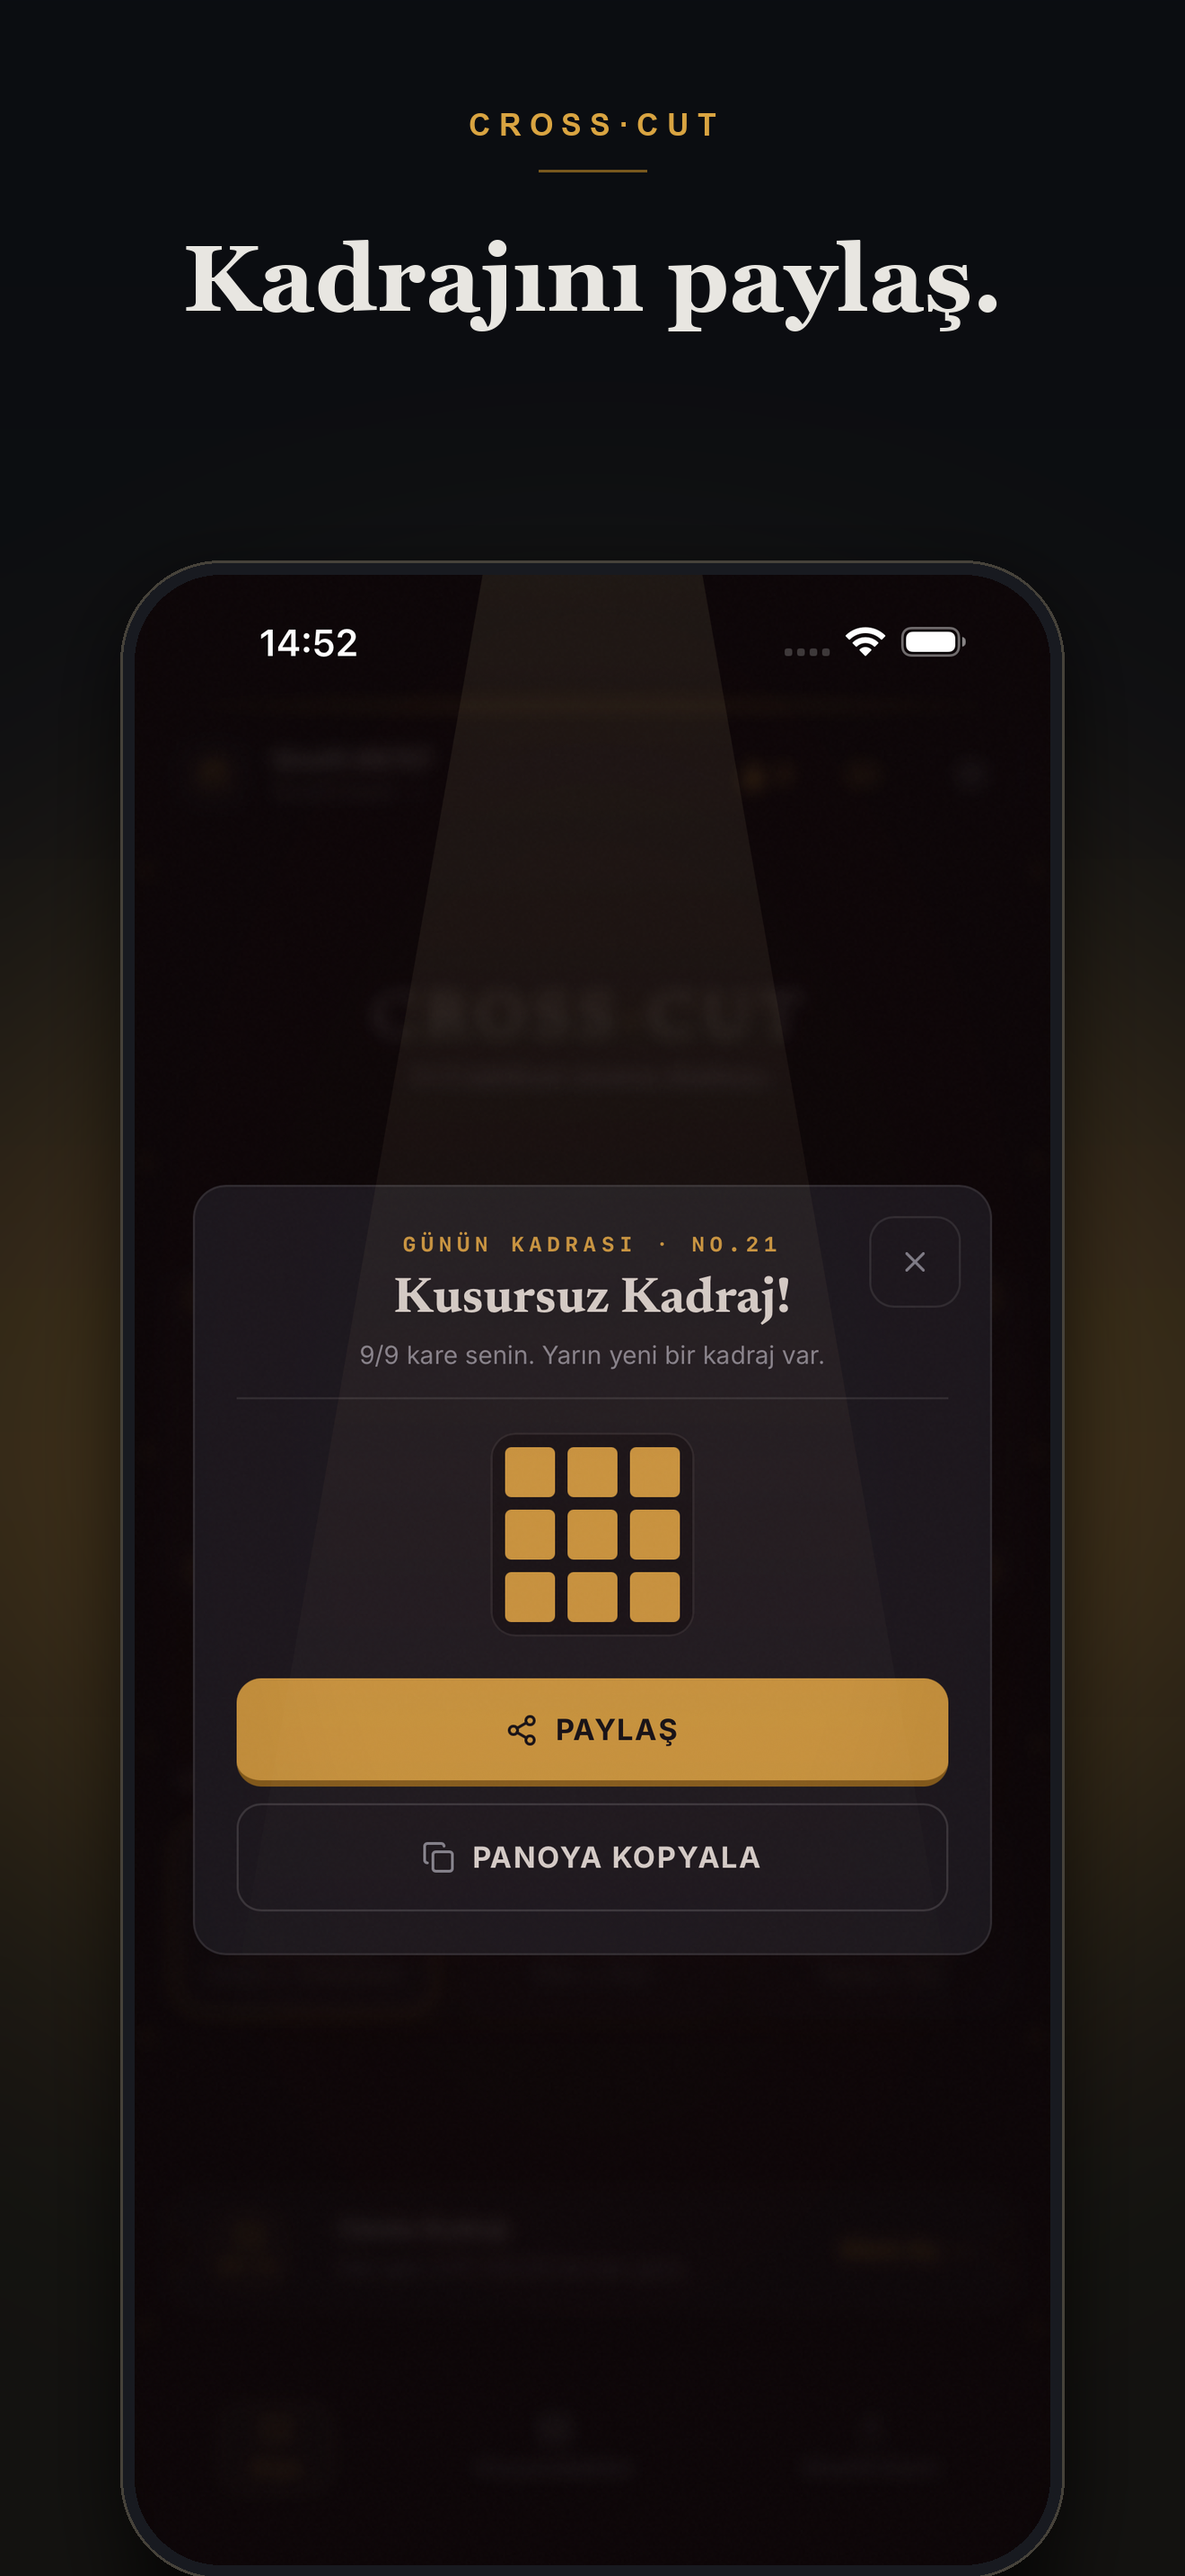
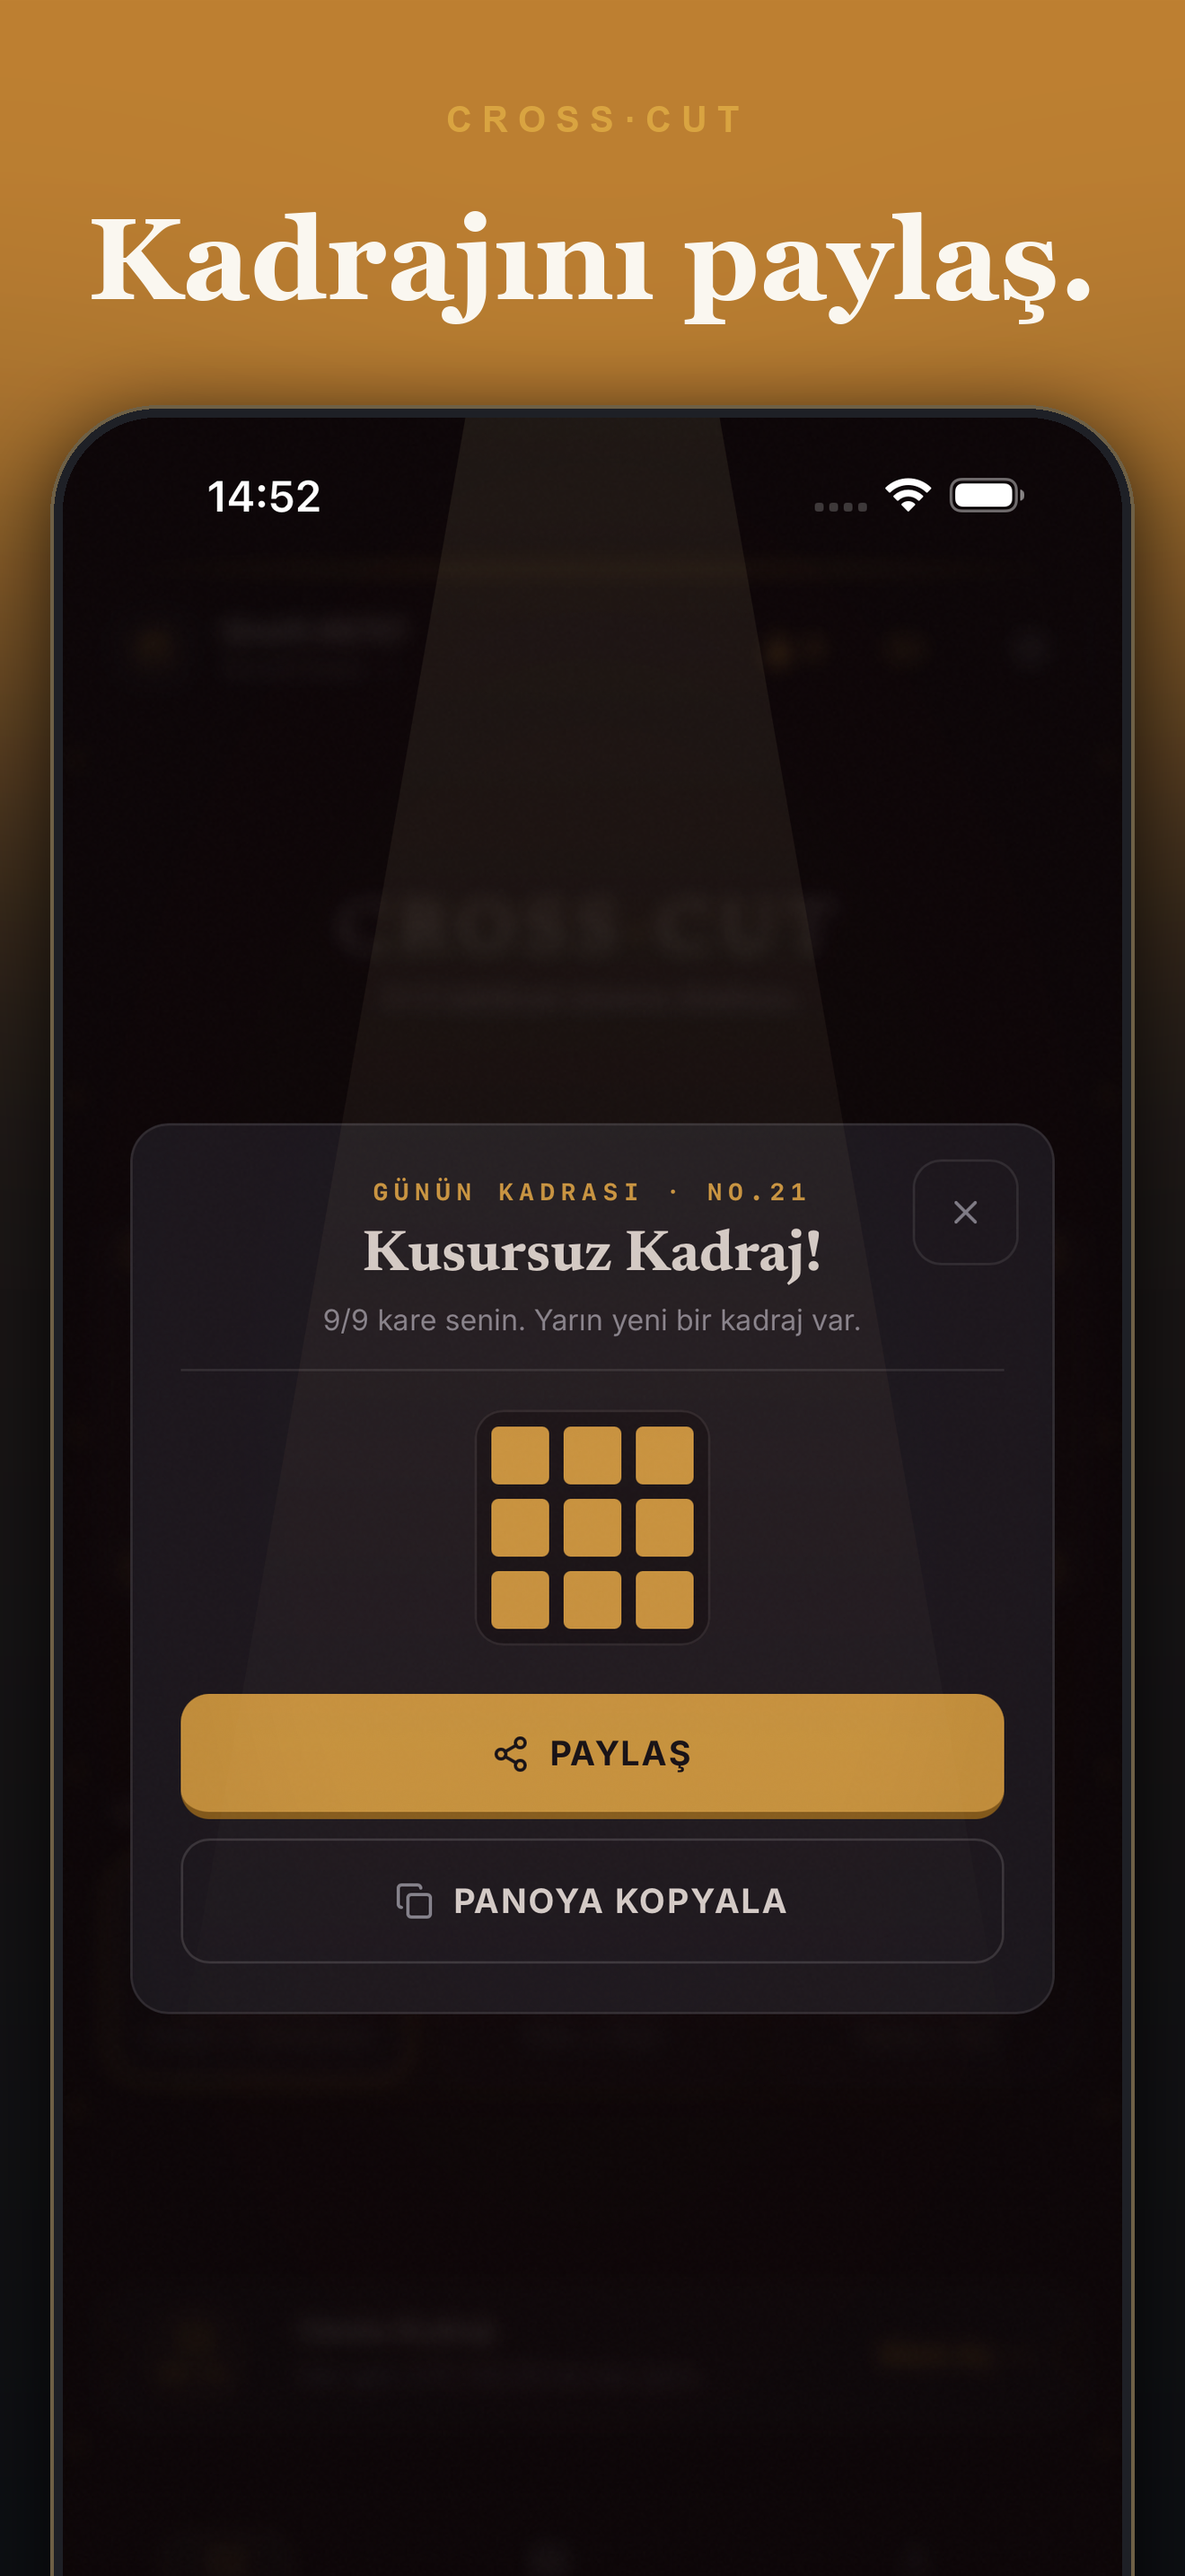
docs(store): regenerate TR/EN App Store screenshots with bolder amber style, larger headlines and larger board (from rival audit)

diff --git a/docs/release/store/compose.py b/docs/release/store/compose.py
@@ -1,0 +1,61 @@
+from PIL import Image, ImageDraw, ImageFont, ImageFilter
+import os, sys
+S="/private/tmp/claude-501/shots"
+OUT="/Users/efe/Desktop/untitled folder/FİLMSEL/docs/release/store"
+W,H=1320,2868
+GOLD=(217,164,65); IVORY=(232,230,225); MUTED=(138,143,154)
+SERIF="/System/Library/Fonts/Supplemental/Georgia Bold.ttf"
+SANS="/System/Library/Fonts/Supplemental/Arial Bold.ttf"
+def font(p,s): return ImageFont.truetype(p,s)
+SETS={
+ "en":[("01-home","en_01_home.png","Movie duel.\n12 seconds."),
+       ("02-classic","en_02_classic.png","Two clues.\nOne film."),
+       ("03-reverse-frame","en_03_reverse.png","Two films.\nOne shared star."),
+       ("04-cinephile-concept","en_04_concept.png","Themes, genres,\ncult cinema."),
+       ("05-daily-reel","en_05_daily.png","A new reel daily.\nOne shot."),
+       ("06-share","en_06_card.png","Share your reel.")],
+ "tr":[("01-gise","tr_01_home.png","Film düellosu.\n12 saniye."),
+       ("02-klasik","tr_02_classic.png","İki ipucu.\nTek film."),
+       ("03-ters-kadraj","tr_03_reverse.png","İki film,\nortak bir oyuncu."),
+       ("04-sinefil-konsept","tr_04_concept.png","Tema ve türle\nkült sinema."),
+       ("05-gunluk-kadraj","tr_05_daily.png","Her gün yeni kadraj.\nTek şans."),
+       ("06-paylas","tr_06_card.png","Kadrajını paylaş.")],
+}
+def bg():
+    im=Image.new("RGB",(W,H),(16,18,24))
+    px=im.load()
+    for y in range(H):
+        t=y/H; r=int(40-26*t); g=int(30-14*t); b=int(26-6*t)
+        for x in range(0,W): px[x,y]=(r,g,b)
+    glow=Image.new("RGB",(W,H),(0,0,0)); d=ImageDraw.Draw(glow)
+    d.ellipse((W//2-900,-500,W//2+900,900),fill=(150,98,24))
+    glow=glow.filter(ImageFilter.GaussianBlur(260))
+    from PIL import ImageChops
+    return ImageChops.add(im,glow)
+def rounded(img,r):
+    m=Image.new("L",img.size,0); ImageDraw.Draw(m).rounded_rectangle((0,0,img.size[0]-1,img.size[1]-1),r,fill=255)
+    out=Image.new("RGBA",img.size); out.paste(img.convert("RGBA"),(0,0),m); return out
+for lang,items in SETS.items():
+    for name,src,head in items:
+        canvas=bg(); d=ImageDraw.Draw(canvas)
+        wm="C R O S S · C U T"; f=font(SANS,40); w=d.textlength(wm,font=f); d.text(((W-w)/2,110),wm,font=f,fill=GOLD)
+        hf=font(SERIF,150); y=215; lines=head.split("\n")
+        for k,line in enumerate(lines):
+            col=(38,22,6) if k==len(lines)-1 and len(lines)>1 else (250,247,240)
+            w=d.textlength(line,font=hf)
+            if w>W-100: hf=font(SERIF,128); w=d.textlength(line,font=hf)
+            d.text(((W-w)/2,y),line,font=hf,fill=col); y+=186
+        top=y+50
+        shot=Image.open(f"{S}/{src}").convert("RGB")
+        pw=1180; ph=int(shot.size[1]*pw/shot.size[0]); shot=shot.resize((pw,ph),Image.LANCZOS)
+        pad=14; fw=pw+2*pad
+        frame=Image.new("RGBA",(fw,ph+2*pad),(0,0,0,0))
+        fd=ImageDraw.Draw(frame); fd.rounded_rectangle((0,0,fw-1,ph+2*pad+300),120,fill=(30,32,38,255),outline=(110,96,70,255),width=4)
+        m=Image.new("L",(pw,ph),0); ImageDraw.Draw(m).rounded_rectangle((0,0,pw-1,ph+300),104,fill=255)
+        frame.paste(shot,(pad,pad),m)
+        sh=Image.new("RGBA",(W,H),(0,0,0,0)); ImageDraw.Draw(sh).rounded_rectangle(((W-fw)//2,top+20,(W+fw)//2,top+ph+300),120,fill=(0,0,0,200))
+        sh=sh.filter(ImageFilter.GaussianBlur(45))
+        canvas=Image.alpha_composite(canvas.convert("RGBA"),sh)
+        canvas.alpha_composite(frame,((W-fw)//2,top))
+        canvas.convert("RGB").save(f"{OUT}/{lang}/{name}.png",optimize=True)
+        print(lang,name)

diff --git a/docs/release/store/README.md b/docs/release/store/README.md
@@ -1,13 +1,15 @@
 # Mağaza görselleri (1.0)
 
 - `tr/` ve `en/`: 6'şar App Store ekran görüntüsü, 1320×2868, RGB, alfa yok.
+- 26 Kasım: yeniden üretildi (rakip denetimi, `docs/strategy/05_*`): amber zemin, büyük başlık (150 px), ikinci satır koyu, telefon alttan taşıyor ve tahta büyük görünüyor. Mantık `compose.py` içinde (ham ekranlar `/private/tmp/claude-501/shots/*.png` yolunu bekler; yeniden üretirken yolu düzelt).
 - Kaynak: iPhone 17 Pro Max simülatöründe `npm run ios:sim` ile alınmış gerçek ekranlar. Üzerine yalnızca başlık ve çerçeve eklendi.
 - App Icon: `ios/App/App/Assets.xcassets/AppIcon.appiconset/AppIcon-512@2x.png` (1024×1024, alfa yok), değiştirilmedi.
 
 ## Yeniden üretmek
 1. `SIM_NAME="iPhone 17 Pro Max" npm run ios:sim`
 2. Ekranları `xcrun simctl io <udid> screenshot x.png` ile yakala (Türkçe için uygulama dilini Ayarlar'dan değiştir).
-3. Başlık ve çerçeve: Pillow ile 1020 px genişlikte yerleştirme, Georgia Bold başlık, altın `#D9A441` marka çizgisi.
+3. Başlık ve çerçeve: `compose.py` (Pillow, 1180 px telefon, Georgia Bold başlık).
+4. Not: oyun ekranı ham görüntüleri sahne ışığı maçta gizlenmeden önce alındı; huzme hafifçe görünüyor. Bir sonraki çekimde yeni derlemeyle yenile.
 
 ## Gemini ile alternatif görsel istersen
 Gemini CLI kurulu (`gemini`), ama oturum yok. Kendi terminalinde bir kez `gemini` yazıp "Login with Google" yap (ya da `GEMINI_API_KEY` ortam değişkeni ver). Görsel üretimi için Gemini API'nin görsel modeli ve CLI eklentisi gerekir; CLI tek başına metin üretir.
